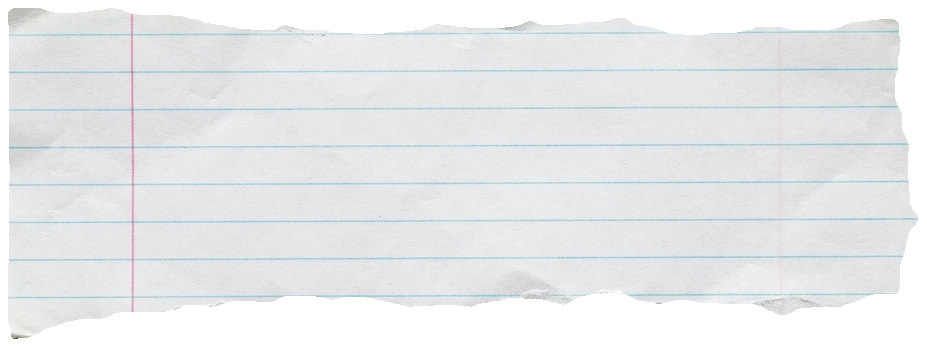
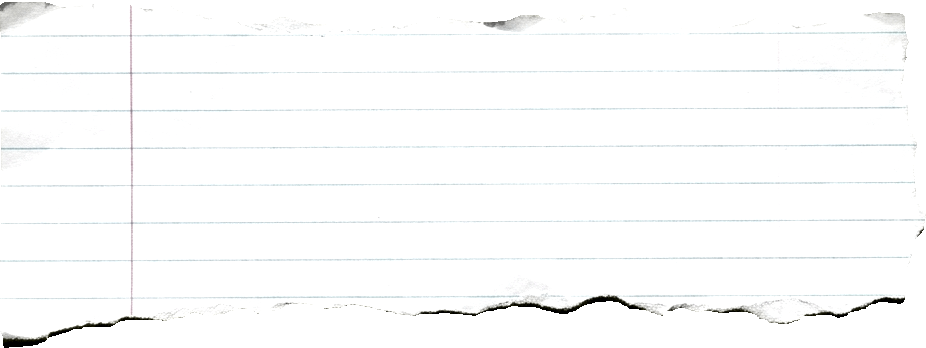
feat: create coding projects page with custom project assets and layout elements

diff --git a/coding/index.html b/coding/index.html
@@ -36,7 +36,7 @@
                                         rel="noopener noreferrer"
                                         style="text-decoration: none; color: inherit; display: flex; flex-direction: column; align-items: center; width: 100%; flex-grow: 1; height: auto; padding-bottom: 60px; box-sizing: border-box;">
                                         <div class="torn-paper-wrapper" style="transform: rotate(-4deg);">
-                                            <div class="torn-paper-scrap" style="background-image: url('../assets/images/new_lined_paper_1_1779069243430.png');">
+                                            <div class="torn-paper-scrap" style="background-image: url('../assets/images/crisp_icon_1.png');">
                                                 <img src="https://raw.githubusercontent.com/Jonahlahona/Dualsense-Chord-Keeper/main/DualsenseChordKeeper.png"
                                                     alt="DualSense Chord Keeper Logo"
                                                     style="width: 110px; height: 110px;">
@@ -55,7 +55,7 @@
                                         rel="noopener noreferrer"
                                         style="text-decoration: none; color: inherit; display: flex; flex-direction: column; align-items: center; width: 100%; flex-grow: 1; height: auto; padding-bottom: 60px; box-sizing: border-box;">
                                         <div class="torn-paper-wrapper" style="transform: rotate(3deg);">
-                                            <div class="torn-paper-scrap" style="background-image: url('../assets/images/new_lined_paper_3_1779069272531.png');">
+                                            <div class="torn-paper-scrap" style="background-image: url('../assets/images/crisp_icon_2.png');">
                                                 <img src="https://raw.githubusercontent.com/Jonahlahona/Steam-Deck-Symlink-Manager/main/assets/icon_large.png"
                                                     alt="Steam Deck Symlink Manager Logo"
                                                     style="width: 110px; height: 110px;">